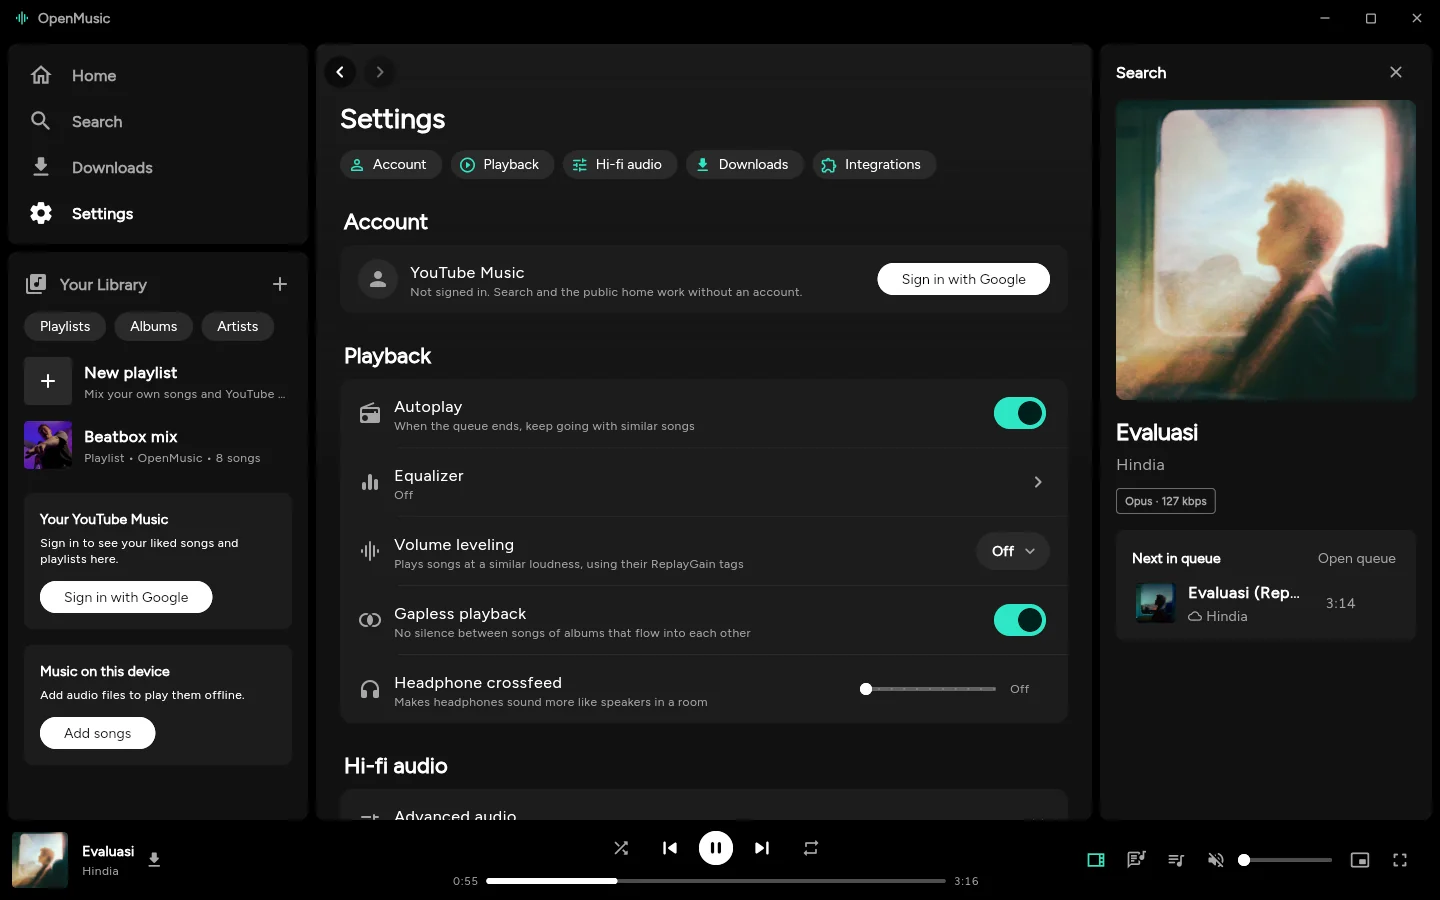
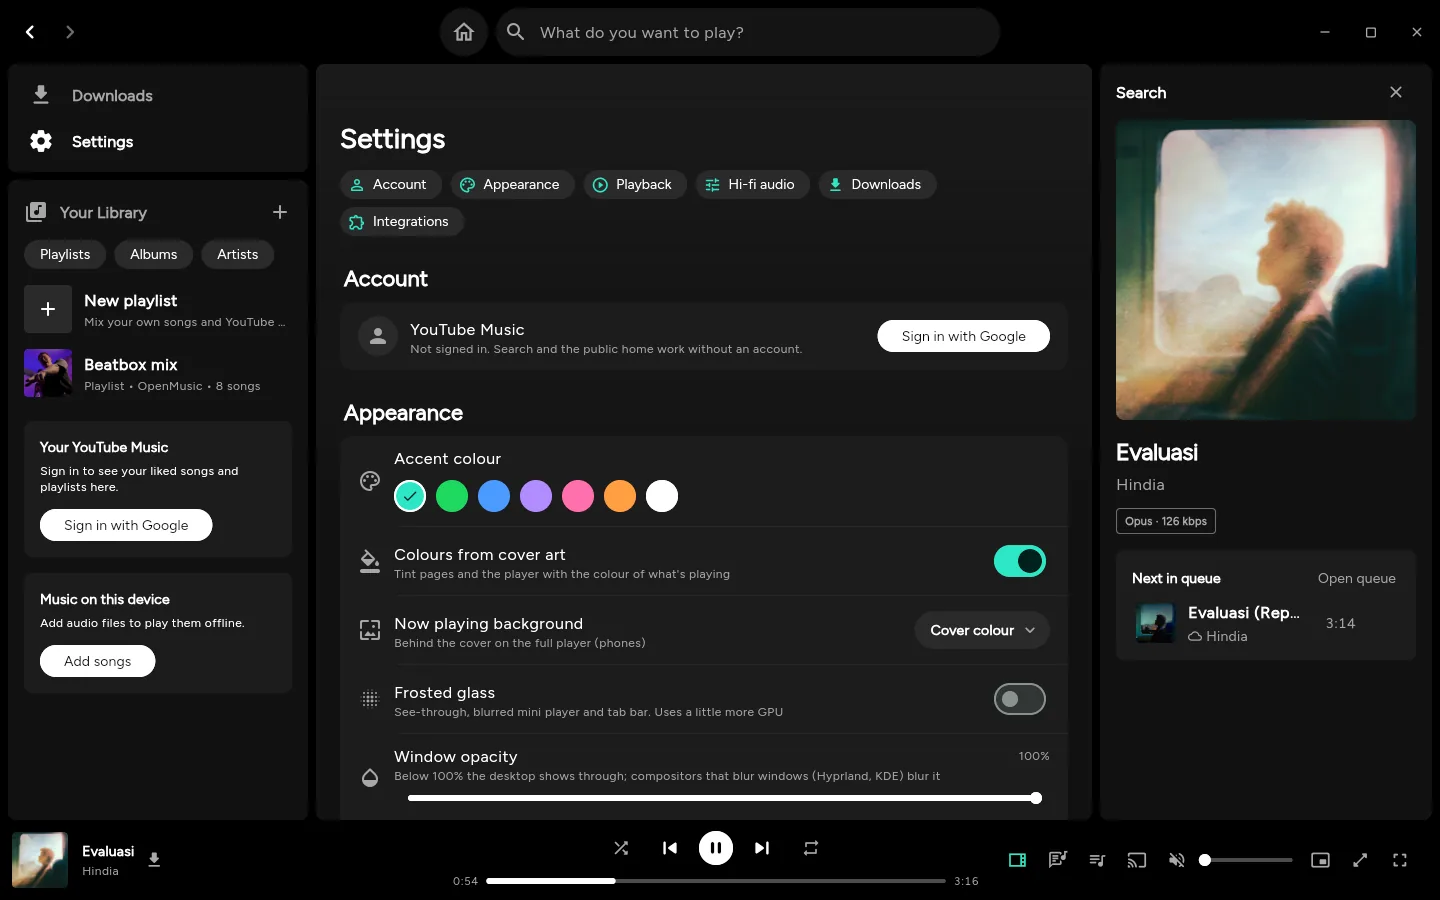
feat: readme adjustment

diff --git a/integration_test/readme_screenshots_test.dart b/integration_test/readme_screenshots_test.dart
@@ -101,13 +101,19 @@ void main() {
       await shot('home');
 
       // Search: your music and YouTube Music together.
-      await tester.tap(find.text('Search').first);
+      // The search box in the title bar.
+      final box = find.widgetWithText(TextField, 'What do you want to play?');
+      await tester.tap(box);
       await settle();
-      await tester.enterText(find.byType(TextField).first, 'codfish');
+      await tester.enterText(box, 'codfish');
       // Enter: the suggestions close and the results (top result, songs, artists…) show.
       await tester.testTextInput.receiveAction(TextInputAction.search);
       await until(() => find.text('Top result').evaluate().isNotEmpty);
       await shot('search');
+      // Empty again, so later pictures don't carry the query.
+      await tester.tap(find.byTooltip('Clear'));
+      FocusManager.instance.primaryFocus?.unfocus();
+      await settle();
 
       // An OpenMusic playlist mixing artists.
       await tester.tap(find.text('Beatbox mix').first);
@@ -122,12 +128,14 @@ void main() {
       await playing();
       await c.player.seek(const Duration(seconds: 48));
       await tester.tap(find.byTooltip('Lyrics'));
-      await until(() => find.text('Lyrics from LRCLIB').evaluate().isNotEmpty);
+      await until(() => find.textContaining('Lyrics from ').evaluate().isNotEmpty);
       await shot('lyrics');
 
       // Settings, then the equalizer.
       await tester.tap(find.text('Settings').first);
       await shot('settings');
+      await Scrollable.ensureVisible(tester.element(find.text('Equalizer')), alignment: 0.5);
+      await settle();
       await tester.tap(find.text('Equalizer'));
       await settle();
       await tester.tap(find.widgetWithText(ChoiceChip, 'Bass boost'));
@@ -137,7 +145,7 @@ void main() {
       await settle();
 
       // Signal path of the hi-res file.
-      await tester.tap(find.text('Home').first);
+      await tester.tap(find.byTooltip('Home'));
       await settle();
       await c.playList([studio], 0, from: 'Hi-Res Test');
       await c.player.setVolume(1);

diff --git a/README.md b/README.md
@@ -32,18 +32,19 @@ A free, open-source music player for Linux, Windows, macOS, Android and iOS, bui
 | Feature | What you get |
 |---|---|
 | **One library** | Files on your device, your playlists and YouTube Music show up together in Home, Search and Library. YouTube Music songs carry a small cloud (they stream). Everything else plays offline, including YouTube songs you've downloaded. |
-| **Your music** | Reads tags and cover art from FLAC, ALAC, WAV, AIFF, MP3, AAC, Ogg, Opus, WavPack, APE, DSD (DSF/DFF) and more. Groups albums and artists, splits cue sheets and shows multi-disc albums. Includes a tag editor that keeps ReplayGain and custom tags. |
+| **Your music** | Reads tags and cover art from FLAC, ALAC, WAV, AIFF, MP3, AAC, Ogg, Opus, WavPack, APE, DSD (DSF/DFF) and more, and plays **SACD ISO images** straight from the image (DST discs too). Groups albums and artists, splits cue sheets and shows multi-disc albums. Includes a tag editor (FLAC, MP4 / M4A, MP3, Ogg...) that keeps ReplayGain and custom tags. |
 | **YouTube Music, no account needed** | Home, charts, search and radio work signed out. Press **Sign in with Google** to add your liked songs, playlists and history. You can like songs and create, rename and delete playlists, and add or remove their songs, right from the app. |
-| **Search that answers while you type** | Suggestions and direct hits (artists, songs, albums) drop down under the search box, recent searches come back when it's empty, and results split into Songs, Artists, Albums and Playlists with a top result first. |
+| **Search from anywhere** | On desktop the search box sits in the title bar, next to Home, on every screen: results appear as you type, split into Songs, Artists, Albums and Playlists with a top result first, and recent searches come back when it's empty. On phones it has its own tab, with suggestions and direct hits under the box. |
 | **Follow artists** | Artists you follow on YouTube Music show up in your library; follow or unfollow from any artist page. |
 | **Playlists** | OpenMusic playlists live on your device and can mix your own files with YouTube Music songs. |
 | **Autoplay** | When the queue ends, similar songs keep coming from YouTube Music's own *Up next* radio. You can also *Start radio* from any song. |
 | **Synced lyrics** | Follow the song line by line, from YouTube Music's own lyrics, a `.lrc` file, the file's tags, [LRCLIB](https://lrclib.net), [Better Lyrics](https://betterlyrics.org), NetEase Cloud Music or [lyrics.ovh](https://lyrics.ovh). Click a line to jump to it. Turn on **Pronunciation** (romaji for Japanese, and the like for other scripts) and **Translation** into your language under each line. |
-| **Hi-fi audio** | On desktop and Android: a 10-band parametric equalizer, ReplayGain, gapless playback, headphone crossfeed and bit-perfect output. A live **signal path** shows exactly what happens to every sample. See [Audio](#audio). |
+| **Hi-fi audio** | On desktop and Android: a 10-band parametric equalizer, ReplayGain, gapless playback, headphone crossfeed and bit-perfect output, plus **native DSD to your DAC (DoP)** and **audio plugins** (VST, LV2, CLAP through Carla) on Linux. A live **signal path** shows exactly what happens to every sample. See [Audio](#audio). |
+| **Play on TVs and speakers** | **Play on** sends the music to a TV, speaker or receiver on your network, DLNA / UPnP or AirPlay, from where it was; play, pause, seek, the queue and volume keep working from the app. |
 | **Fast** | YouTube songs start in about 0.3 s and the next one in the queue in under 20 ms (it's fetched ahead); Home appears at once on launch from the last session's shelves. Light on memory too: about 165 MB at rest on Linux. |
 | **Make it yours** | Pick an accent colour, tint the app with the cover art or keep it neutral, choose a blurred-cover or plain Now Playing background, turn on frosted-glass bars, set the text size, and on Linux make the window see-through so your compositor's blur shows behind it. |
 | **Downloads** | Save any YouTube song or playlist for offline listening, byte for byte in the best quality YouTube serves. |
-| **Made for every screen** | Bottom tabs and a floating mini player on phones (swipe it to change song), a library sidebar and now-playing panel on desktop, tested from 240×320 up to 4K. Desktop navigation works like a browser: Back and Forward, mouse side buttons, `Alt+←/→`. |
+| **Made for every screen** | Bottom tabs and a floating mini player on phones (swipe it to change song), a library sidebar and now-playing panel on desktop, tested from 240×320 up to 4K. Desktop navigation works like a browser: Back and Forward in the title bar, mouse side buttons, `Alt+←/→`. The window opens centred, sized to your screen. |
 | **Expanded, full-screen and mini player** | On desktop, like Spotify's: the cover fills the window (**Expanded player**) or the whole screen (`F11`, `Esc`), with the synced lyrics beside it at the press of **Lyrics**; or the window shrinks to a small always-on-top player. |
 | **System media controls** | The Android notification and lock screen, Control Center on iOS / macOS, and MPRIS on Linux (desktop media widgets, `playerctl`). |
 | **Discord, media keys, shortcuts** | Discord Rich Presence, media keys and keyboard shortcuts (`Space`, `Ctrl+K`, `Ctrl+←/→`, `Ctrl+V` to import a copied YouTube link). |
@@ -87,10 +88,11 @@ On Linux and Windows, playback runs on [libmpv](https://mpv.io). OpenMusic drive
 | | |
 |---|---|
 | **Sound** (Settings) | Equalizer with presets and automatic headroom, volume leveling (ReplayGain per song or album), gapless playback, headphone crossfeed |
-| **Advanced audio** | Output device, including direct ALSA hardware devices; **bit-perfect mode** (no DSP, no resampling, volume fixed at 100%; WASAPI exclusive on Windows, not yet tested on real hardware); **ASIO output** on Windows, built into the app's own libmpv (tested under Wine, not yet on real hardware); output sample rate; SoX resampler; buffer size |
+| **Advanced audio** | Output device, including direct ALSA hardware devices; **bit-perfect mode** (no DSP, no resampling, volume fixed at 100%; WASAPI exclusive on Windows, not yet tested on real hardware); **Native DSD (DoP)**: DSF, DSDIFF and SACD songs go to a DoP-capable DAC as DSD (with bit-perfect mode); **audio plugins**: VST2, LV2, CLAP and LADSPA plugins set up in [Carla](https://kx.studio/Applications:Carla), in the chain after the equalizer (Linux, with Carla installed; VST3 not yet); **ASIO output** on Windows, built into the app's own libmpv (tested under Wine, not yet on real hardware); output sample rate; SoX resampler; buffer size |
+| **Play on** | DLNA / UPnP renderers and classic AirPlay speakers, found on the network. Files the device can't play (DSD, cue-sheet songs, WavPack...) are converted to FLAC on the fly, YouTube songs go as AAC; AirPlay gets ALAC. Never tried on real TVs or speakers yet: tested against a simulated renderer and shairport-sync |
 | **Signal path** | Source codec and stored bit depth → decoder → every DSP stage → volume → resampler → output device, with a verdict: *Bit-perfect*, *Lossless to the system mixer* or *Processed* |
 
-What's still missing (native DSD / DoP, DLNA, AirPlay, …) and how it could be built is tracked in **[Features.md](Features.md)**.
+What works, what is partial and how it was tested, item by item, is in **[Features.md](Features.md)**.
 
 ## Platform notes
 
